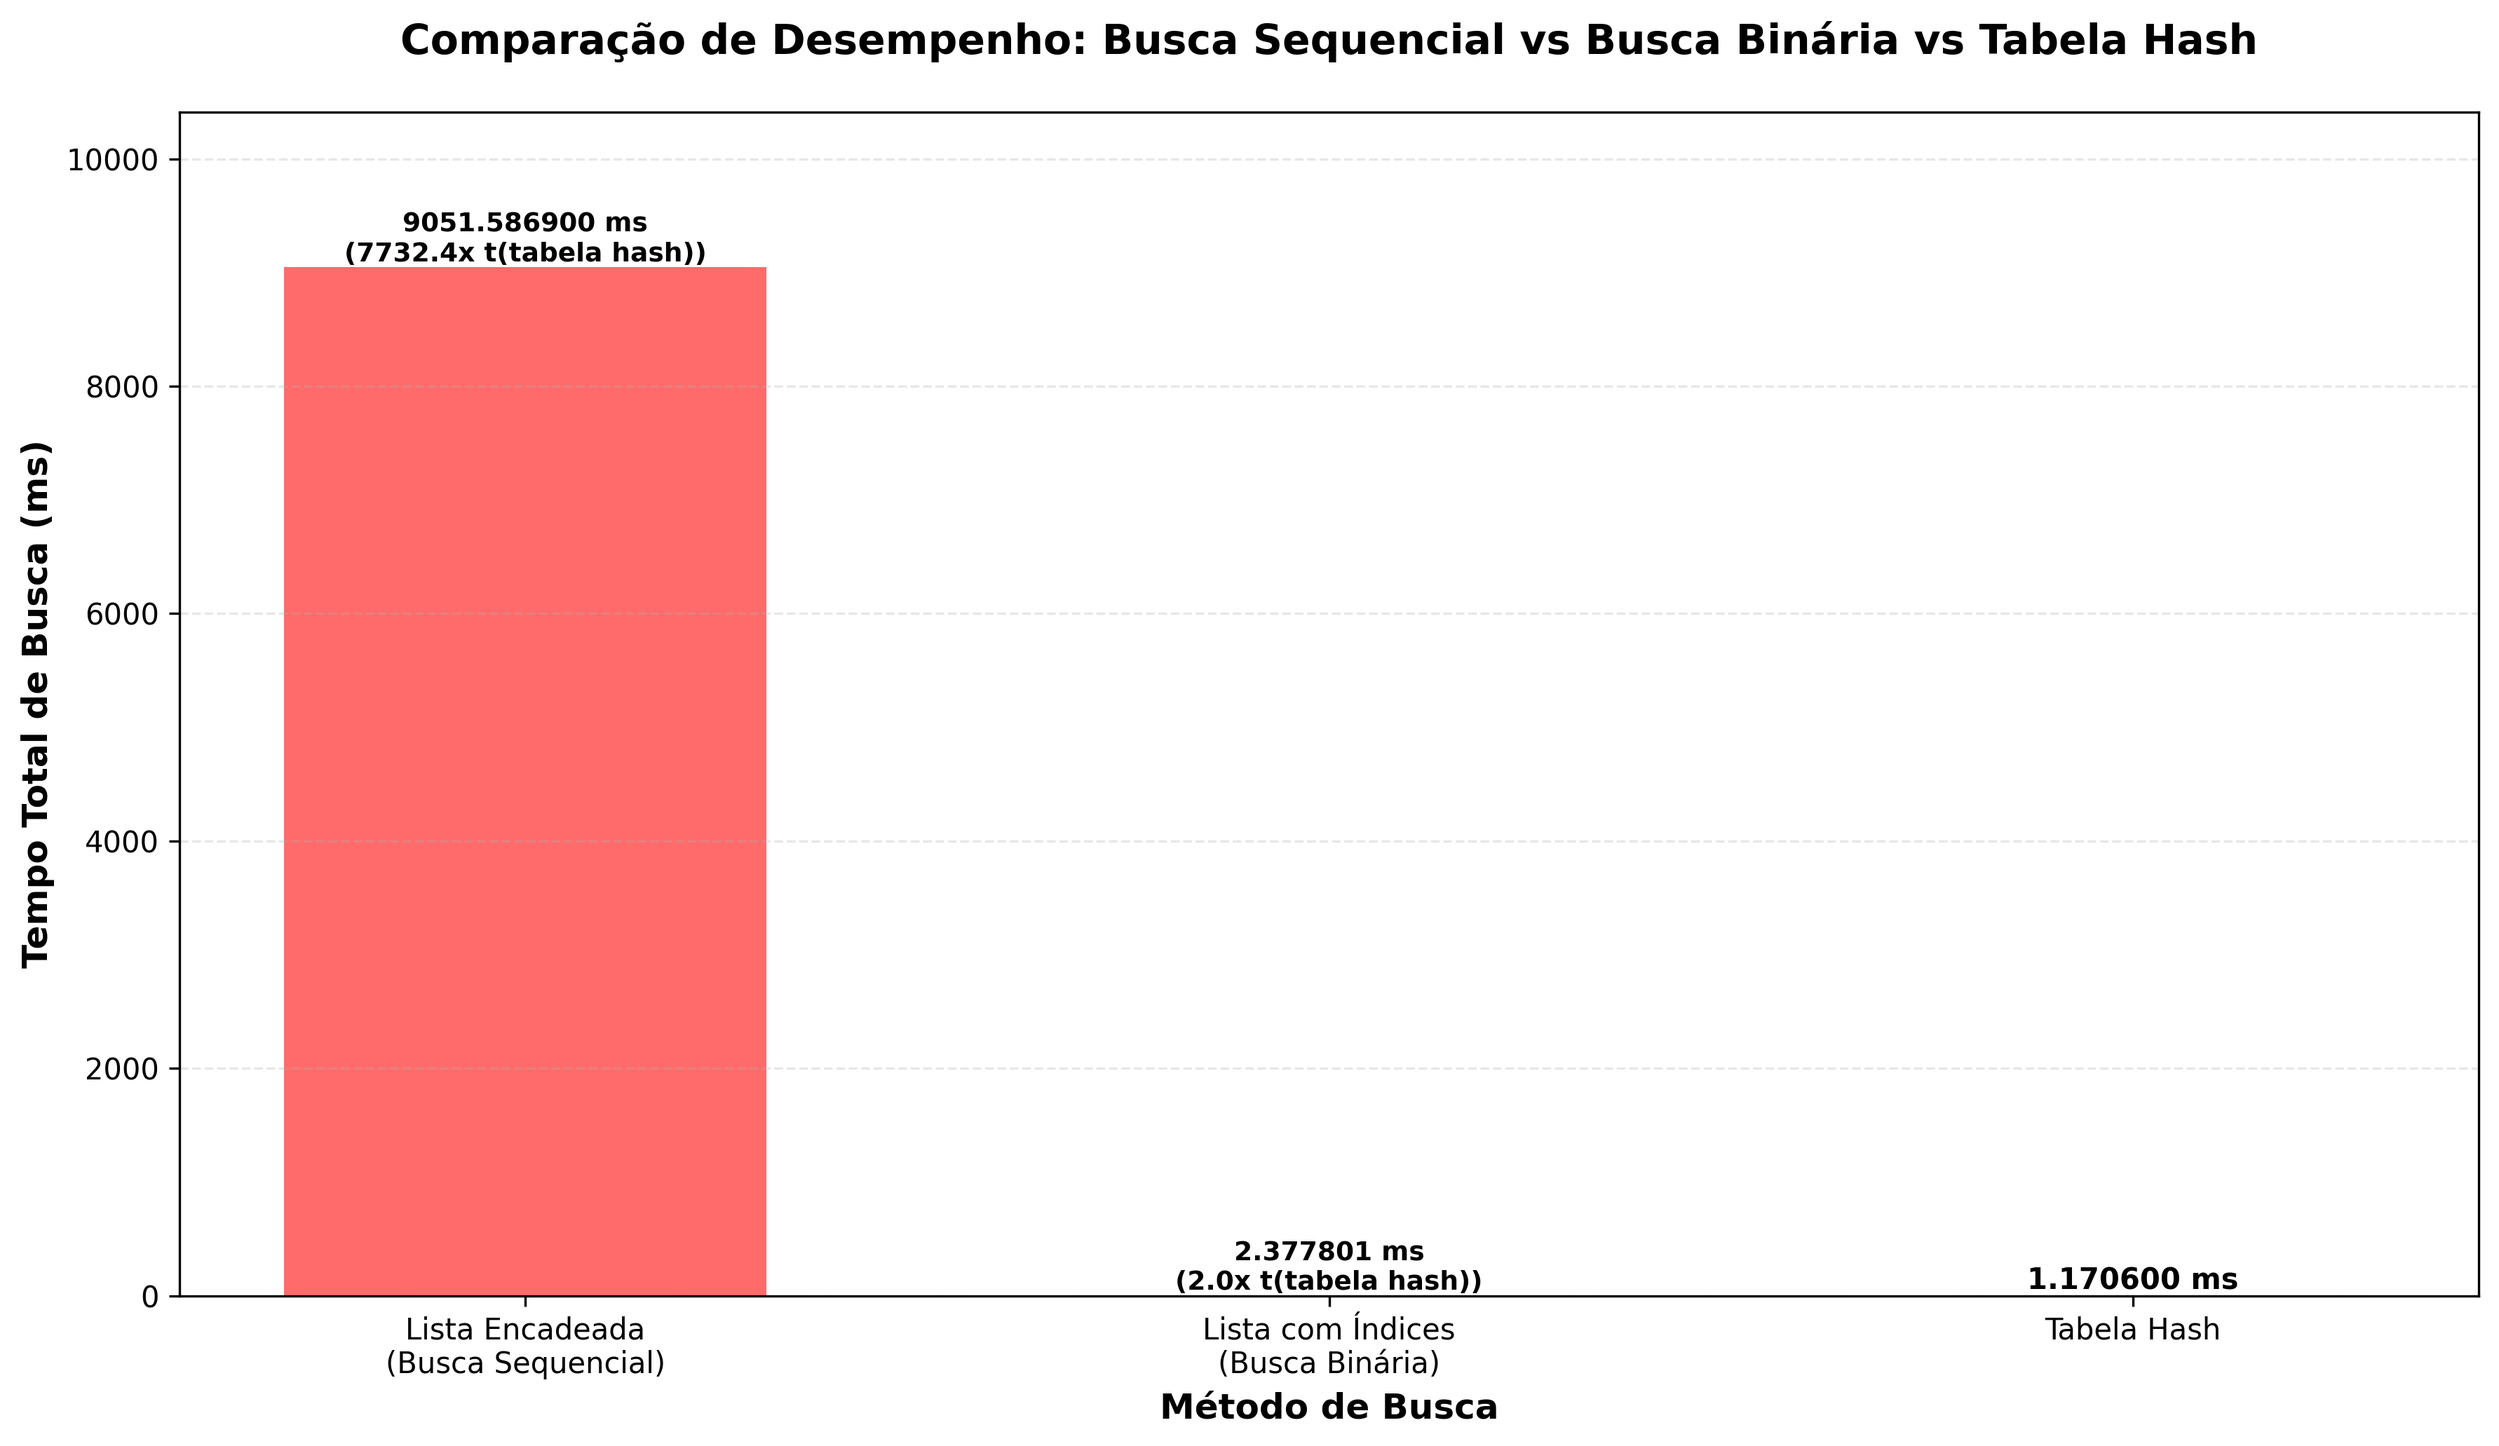
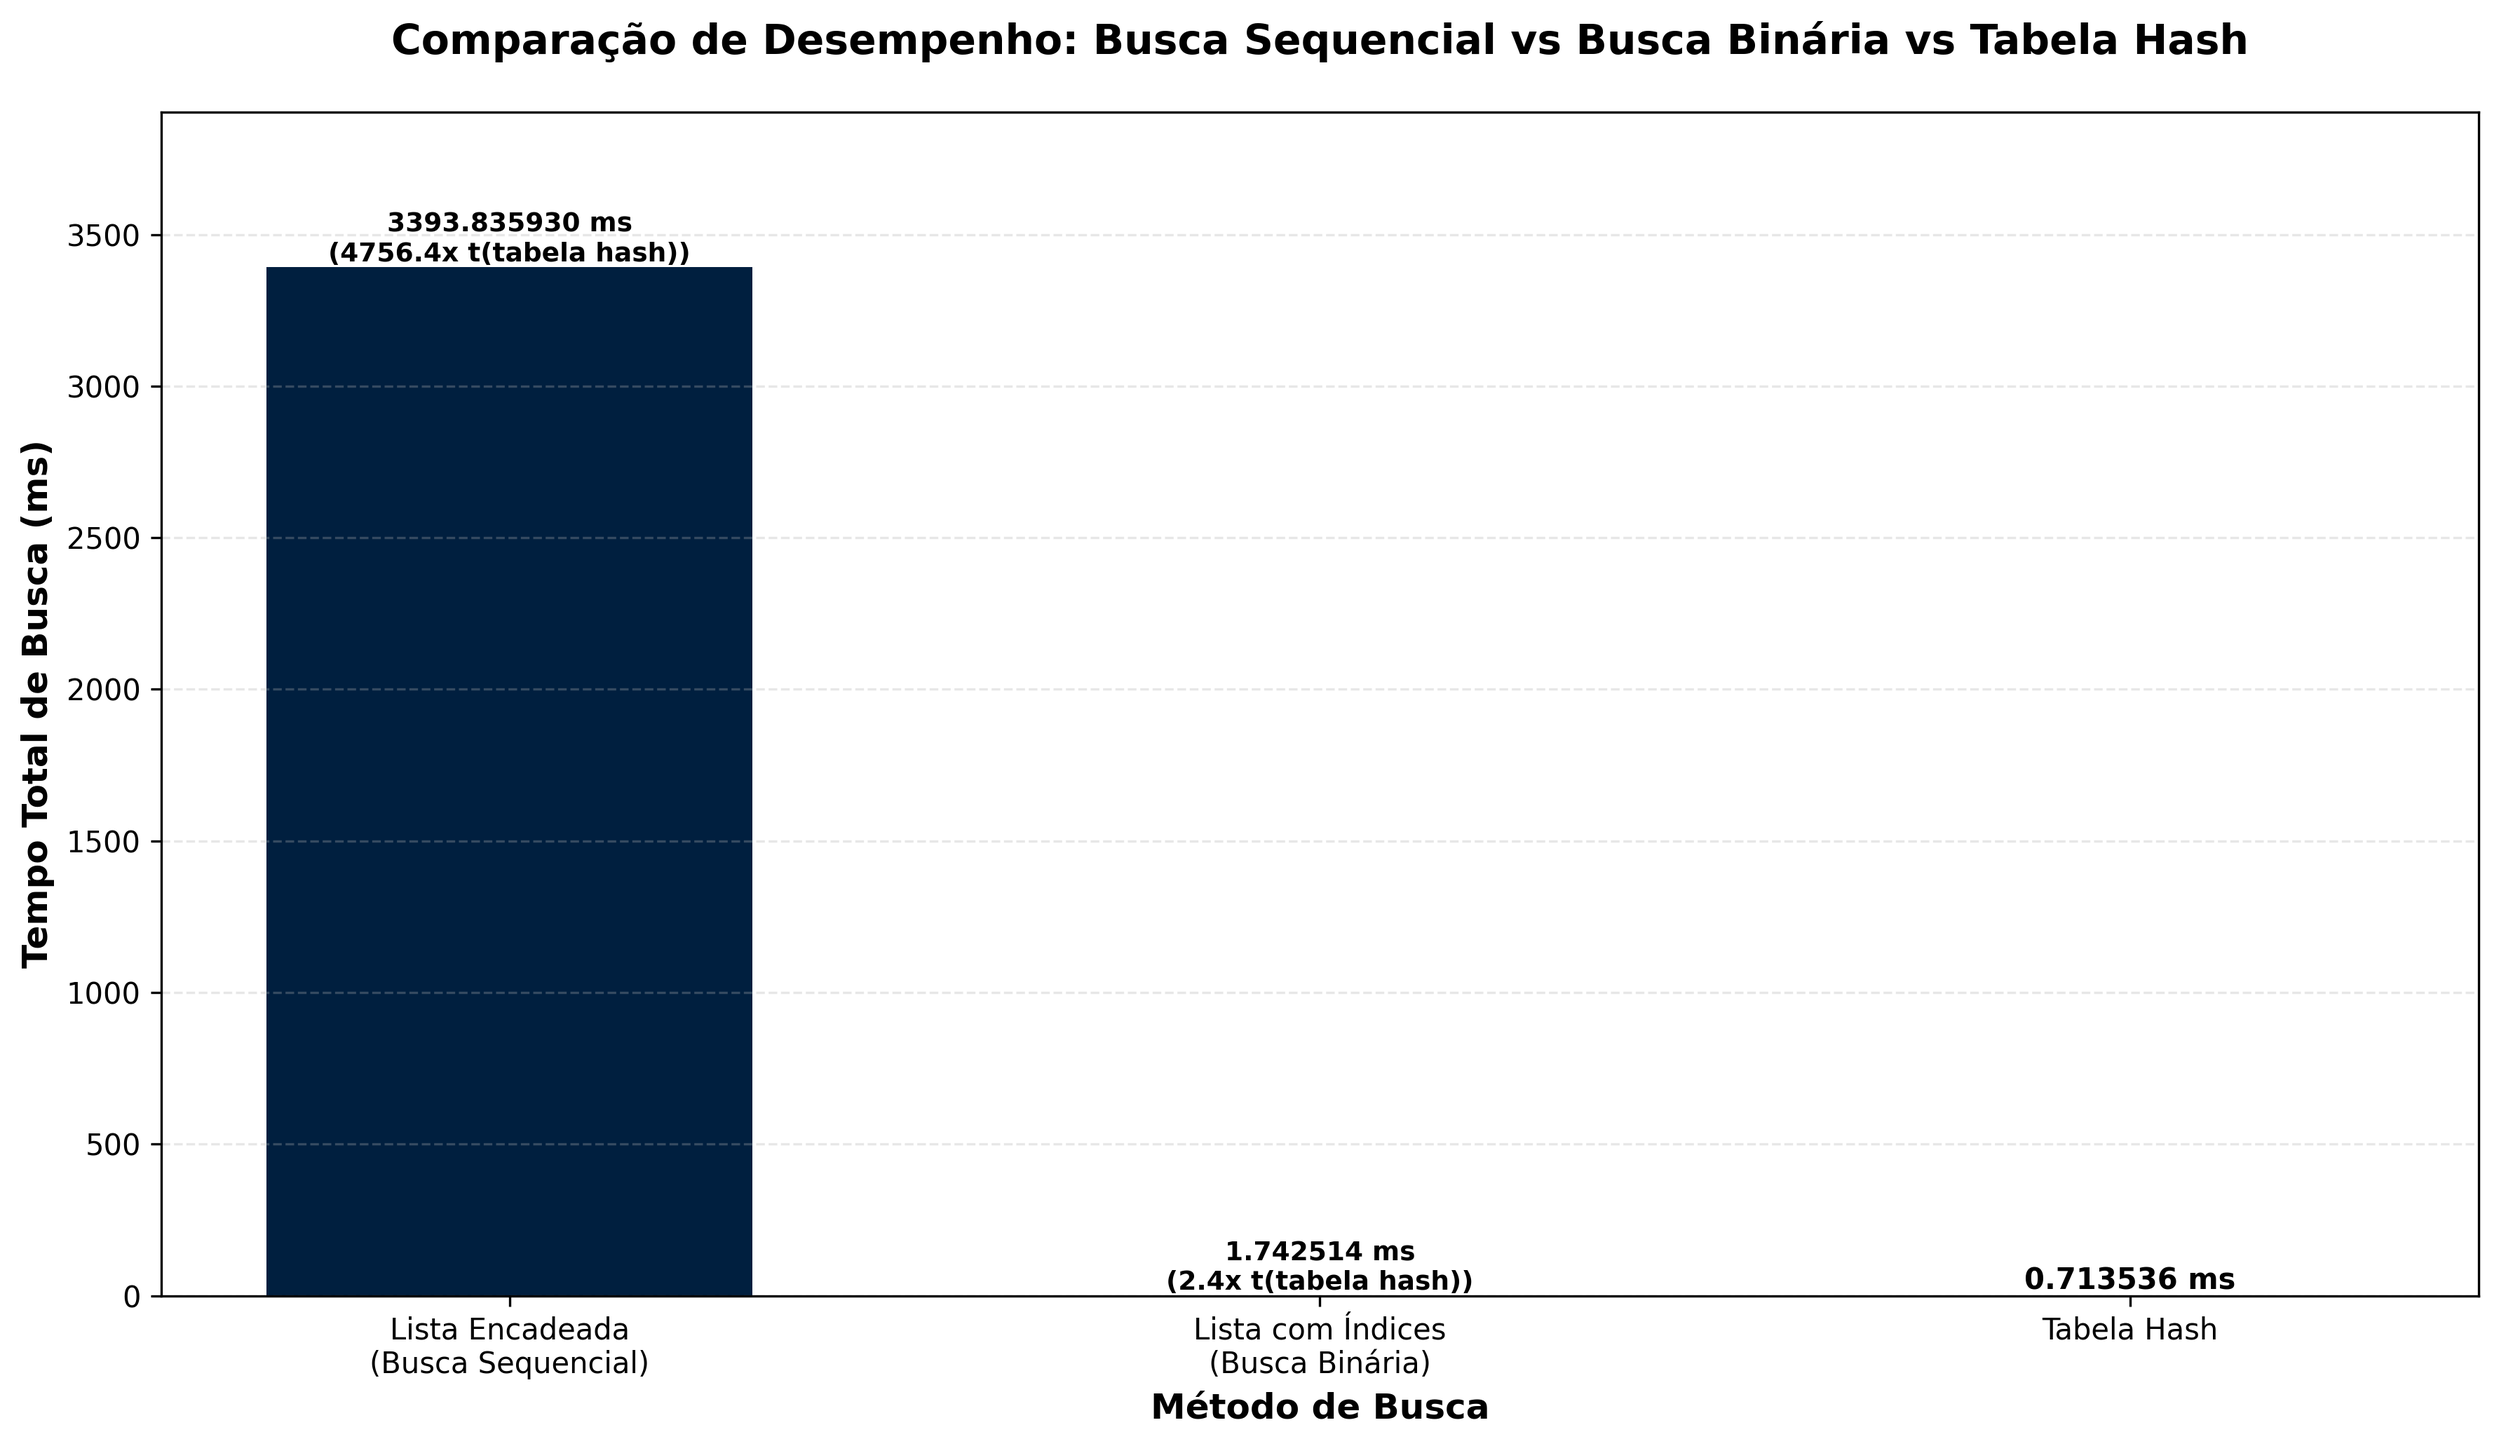
Atualizar cores dos gráficos para azul marinho e cinza nos projetos 2 e 3

diff --git a/projeto_3/projeto_3.py b/projeto_3/projeto_3.py
@@ -255,8 +255,8 @@ def main():
     largura = 0.35
     
     plot.figure(figsize=(14, 6))
-    barras1 = plot.bar(x - largura/2, tempos_insercao, largura, label='Inserção', color='#FF6B6B')
-    barras2 = plot.bar(x + largura/2, tempos_intercalacao, largura, label='Intercalação', color='#4ECDC4')
+    barras1 = plot.bar(x - largura/2, tempos_insercao, largura, label='Inserção', color='#001f3f')
+    barras2 = plot.bar(x + largura/2, tempos_intercalacao, largura, label='Intercalação', color='#6c757d')
     
     # Adicionar valores nas barras de Inserção com fator de comparação
     for i, barra in enumerate(barras1):
@@ -294,7 +294,7 @@ def main():
     tempo_medio_insercao_ms = tempo_medio_insercao * 1000
     tempo_medio_intercalacao_ms = tempo_medio_intercalacao * 1000
     
-    barras = plot.bar(categorias, tempos_totais, color=['#FF6B6B', '#4ECDC4'], width=0.6)
+    barras = plot.bar(categorias, tempos_totais, color=['#001f3f', '#6c757d'], width=0.6)
     
     # Adicionar valores nas barras com tempo total, média e fator de comparação
     fator_geral = (tempo_total_insercao * 1000) / (tempo_total_intercalacao * 1000)

diff --git a/projeto_2/projeto_2.py b/projeto_2/projeto_2.py
@@ -221,7 +221,7 @@ def main():
     ]  # Converter para ms
     
     plot.figure(figsize=(12, 7))
-    barras = plot.bar(categorias, tempos_totais, color=['#FF6B6B','#4ECDC4', '#95E1D3'], width=0.6)
+    barras = plot.bar(categorias, tempos_totais, color=['#001f3f','#6c757d', '#a0a0a0'], width=0.6)
     
     # Calcular fatores comparativos em relação ao mais rápido
     tempo_min = min(tempos_totais)
